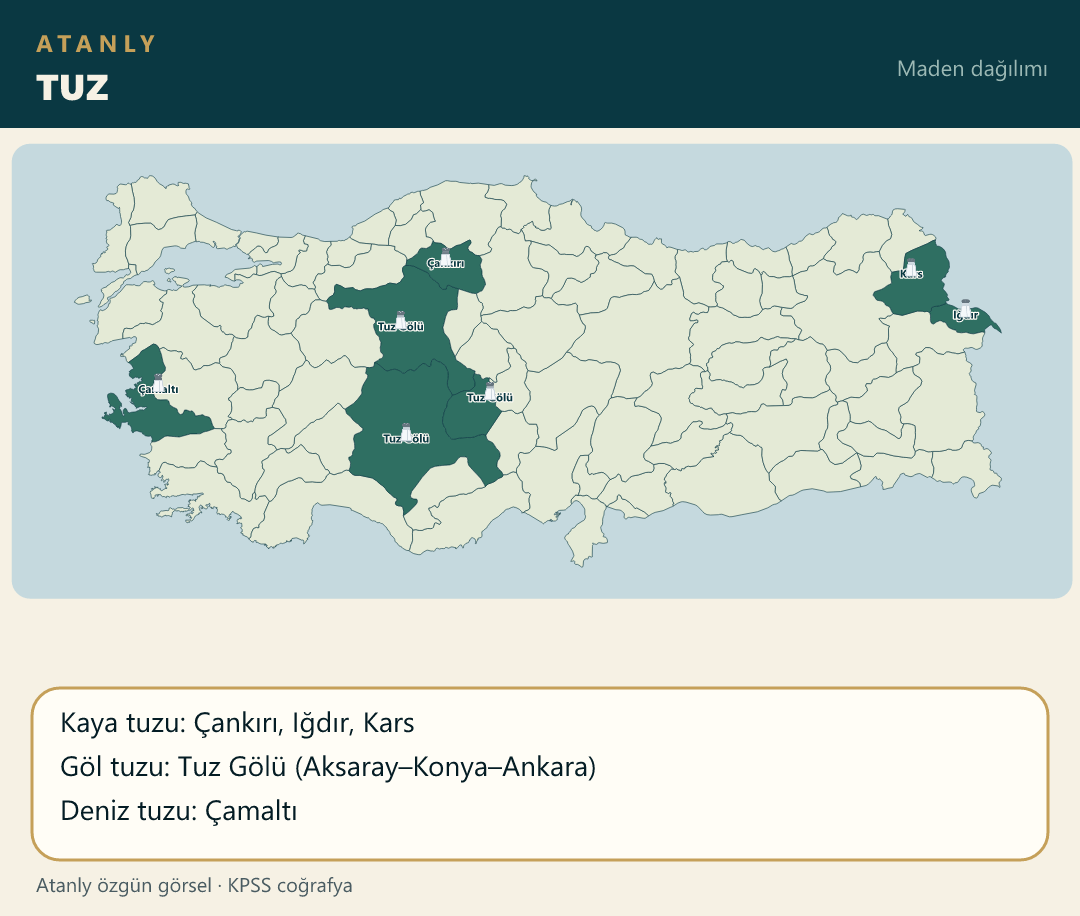
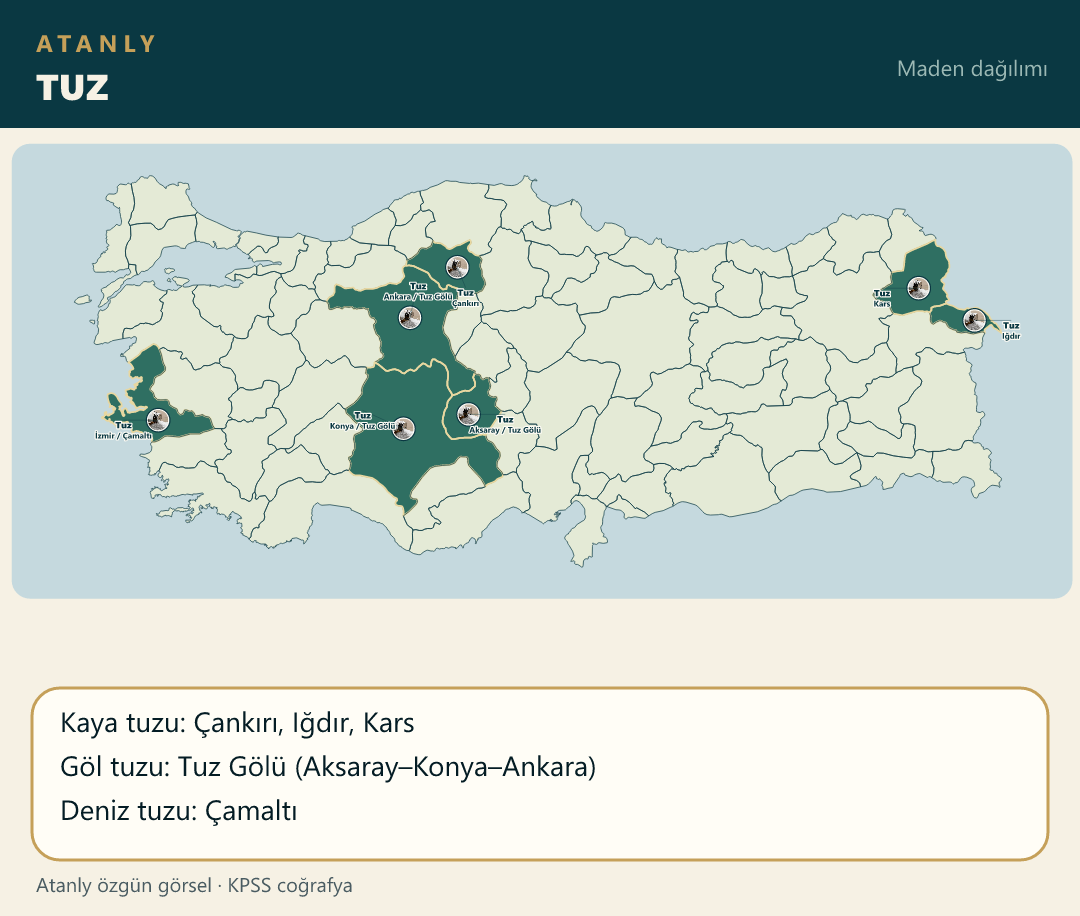
Place the salt photo on each salt province land-center pin.

diff --git a/scripts/build-atanly-maps.js b/scripts/build-atanly-maps.js
@@ -1076,8 +1076,16 @@ function main() {
                 { il: "Konya", ilce: "Sarayönü", ldx: 40, ldy: -10 }
             ],
             facts: ["Oda sıcaklığında sıvı olan tek maden", "Karaburun ve Sarayönü", "Hassas alet (termometre, barometre)"] },
-        { file: "maden_tuz.png", title: "TUZ", iller: ["Çankırı", "Iğdır", "Kars", "Aksaray", "Konya", "Ankara", "İzmir"],
-            yazilar: ["Çankırı", "Iğdır", "Kars", "Tuz Gölü", "Tuz Gölü", "Tuz Gölü", "Çamaltı"],
+        { file: "maden_tuz.png", title: "TUZ", urun: "Tuz",
+            noktalar: [
+                { il: "Çankırı", ldx: 8, ldy: 28 },
+                { il: "Iğdır", ldx: 36, ldy: 8 },
+                { il: "Kars", ldx: -36, ldy: 8 },
+                { il: "Aksaray", ilce: "Tuz Gölü", ldx: 36, ldy: 8 },
+                { il: "Konya", ilce: "Tuz Gölü", ldx: -40, ldy: -10 },
+                { il: "Ankara", ilce: "Tuz Gölü", ldx: 8, ldy: -28 },
+                { il: "İzmir", ilce: "Çamaltı", ldx: -34, ldy: 8 }
+            ],
             facts: ["Kaya tuzu: Çankırı, Iğdır, Kars", "Göl tuzu: Tuz Gölü (Aksaray–Konya–Ankara)", "Deniz tuzu: Çamaltı"] },
         { file: "maden_perlit.png", title: "PERLİT (İNCİ TAŞI)", urun: "Perlit",
             noktalar: [

diff --git a/notlar/cografya-21-not.js b/notlar/cografya-21-not.js
@@ -2,7 +2,7 @@
 (function () {
     function harita(src, alt) {
         return '<div class="mt-4 overflow-hidden rounded-xl border border-blue-200 dark:border-blue-700/50 bg-white dark:bg-slate-800 p-2">' +
-            '<img src="./src/img/' + src + '?v=35" alt="' + alt + ' Haritası" class="w-full h-auto rounded-lg object-contain" loading="lazy">' +
+            '<img src="./src/img/' + src + '?v=36" alt="' + alt + ' Haritası" class="w-full h-auto rounded-lg object-contain" loading="lazy">' +
             "</div>";
     }
 

diff --git a/index.html b/index.html
@@ -119,7 +119,7 @@
     <script src="notlar/cografya-18-not.js?v=17"></script>
     <script src="notlar/cografya-19-not.js?v=25"></script>
     <script src="notlar/cografya-20-not.js?v=1"></script>
-    <script src="notlar/cografya-21-not.js?v=28"></script>
+    <script src="notlar/cografya-21-not.js?v=29"></script>
     <script src="notlar/cografya-22-not.js?v=1"></script>
     <script src="notlar/cografya-23-not.js?v=1"></script>
     <script src="notlar/cografya-24-not.js?v=1"></script>
